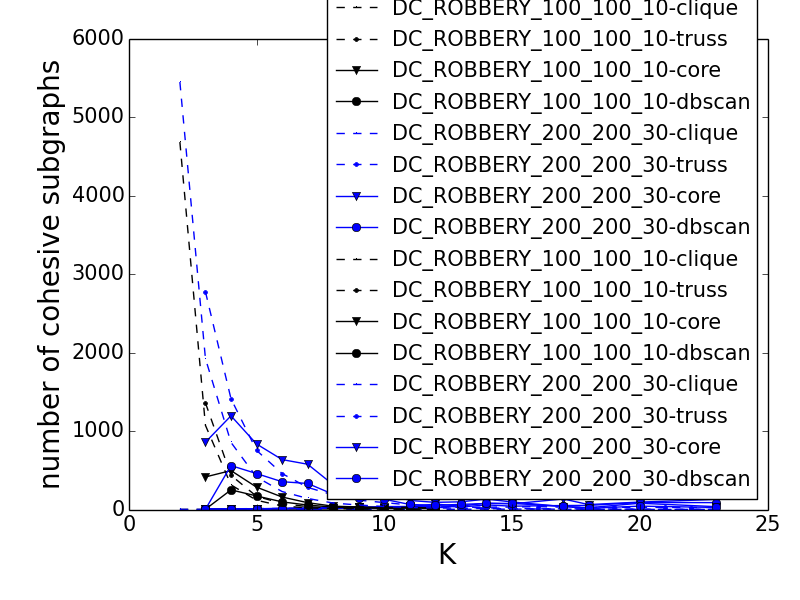
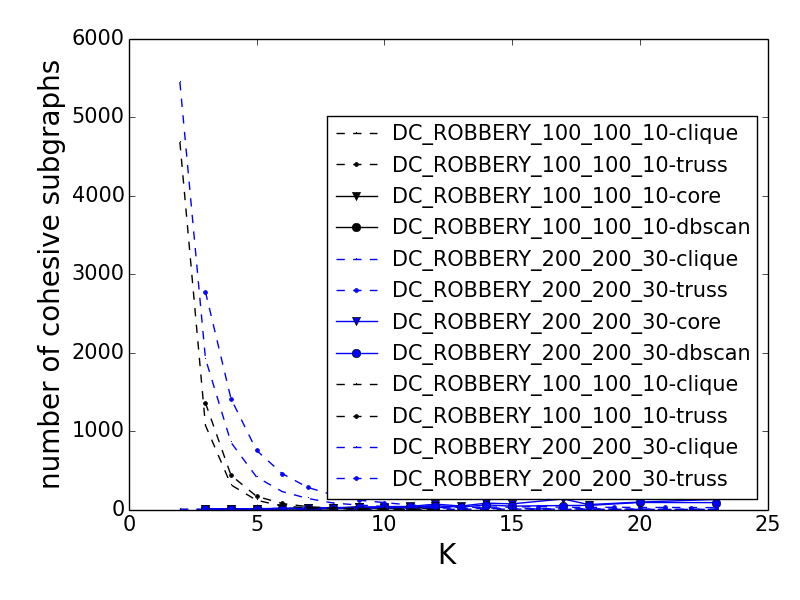
sth

diff --git a/scripts/data_analysis.py b/scripts/data_analysis.py
@@ -127,6 +127,7 @@ class JsonStatsCollections:
         for file in glob.glob("*.json"):
             try:
                 if file.find(prefix) != -1:
+                    print "come" + prefix
                     stats = JsonStats(file)  
                     self.coll[file] = stats
             except:
@@ -144,8 +145,8 @@ class JsonStatsCollections:
             else:
                 plt.plot(self.coll[c].clique['x'], self.coll[c].clique['y'], color=colors[i], linestyle='--', marker=',', label = self.coll[c].name+'-clique')
                 plt.plot(self.coll[c].truss['x'],  self.coll[c].truss['y'],  color=colors[i], linestyle='--', marker='.', label = self.coll[c].name+'-truss')
-                plt.plot(self.coll[c].core['x'],   self.coll[c].core['y'],   color=colors[i], linestyle='-',  marker='v', label = self.coll[c].name+'-core')
-                plt.plot(self.coll[c].dbscan['x'], self.coll[c].dbscan['y'], color=colors[i], linestyle='-',  marker='o', label = self.coll[c].name+'-dbscan')
+                #plt.plot(self.coll[c].core['x'],   self.coll[c].core['y'],   color=colors[i], linestyle='-',  marker='v', label = self.coll[c].name+'-core')
+                #plt.plot(self.coll[c].dbscan['x'], self.coll[c].dbscan['y'], color=colors[i], linestyle='-',  marker='o', label = self.coll[c].name+'-dbscan')
             i += 1
         plt.legend( loc='lower right', numpoints = 1, prop={'size':15} )
         plt.tick_params(labelsize=15)
@@ -176,7 +177,7 @@ def main(argv):
                 stats = JsonStats(file)  
                 print stats.summary()
                 ofname = file.replace("json", "") + "png"
-                stats.plot(ofname)
+                #stats.plot(ofname)
             except:
                 print "Data Corruption in " + file
     elif args.prefix:
